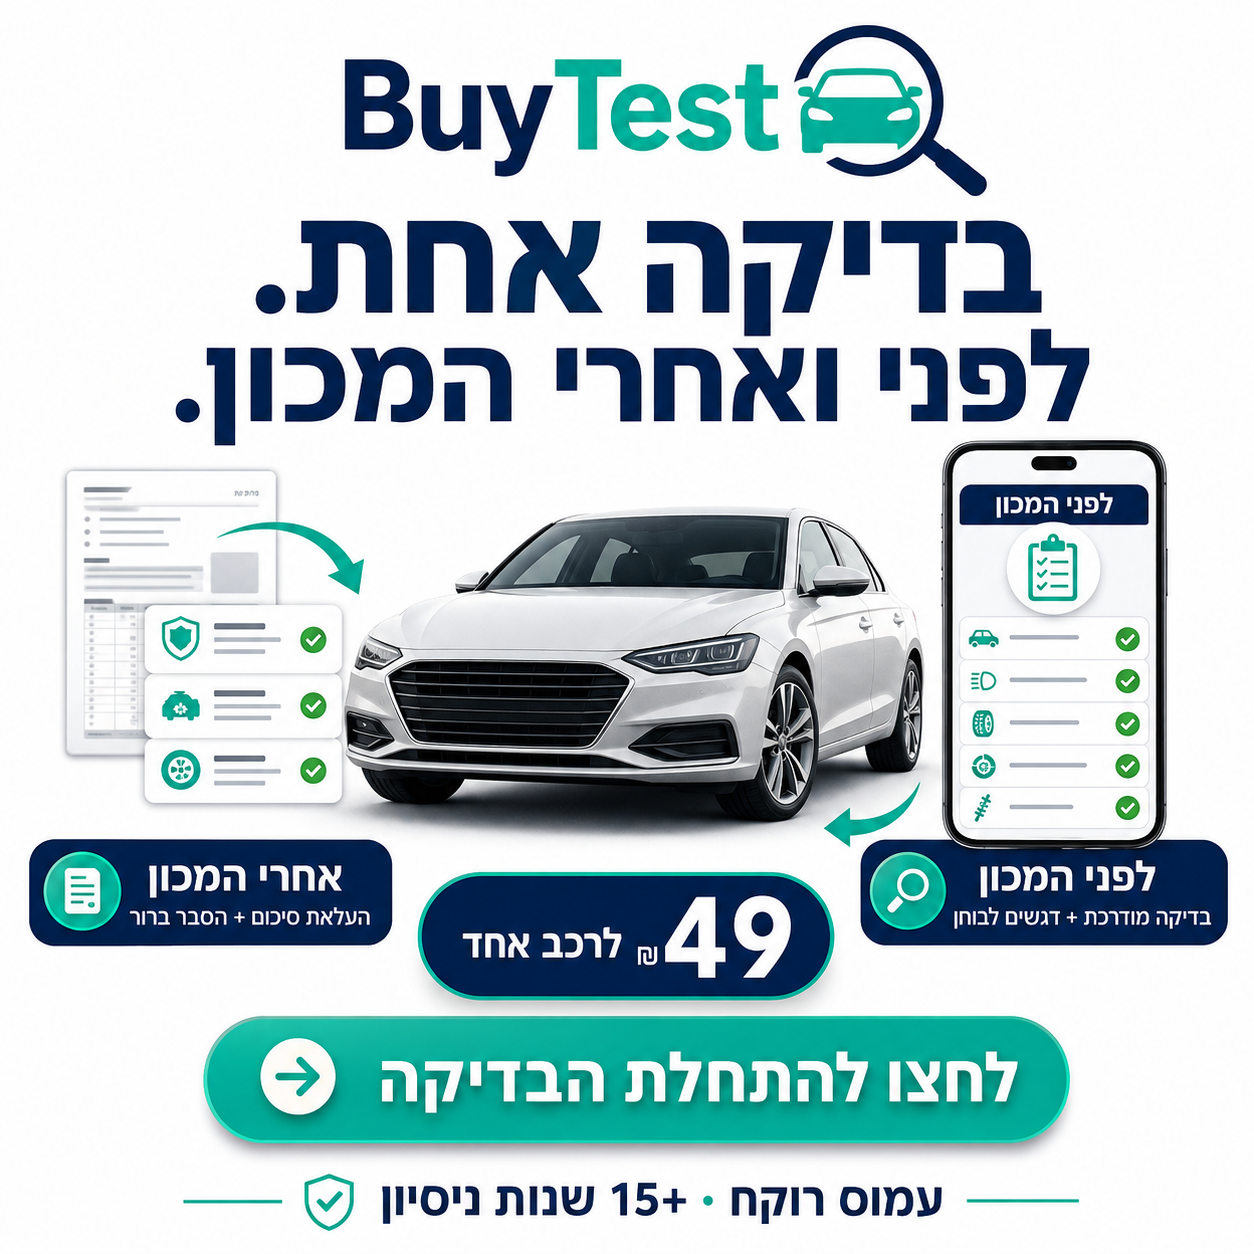
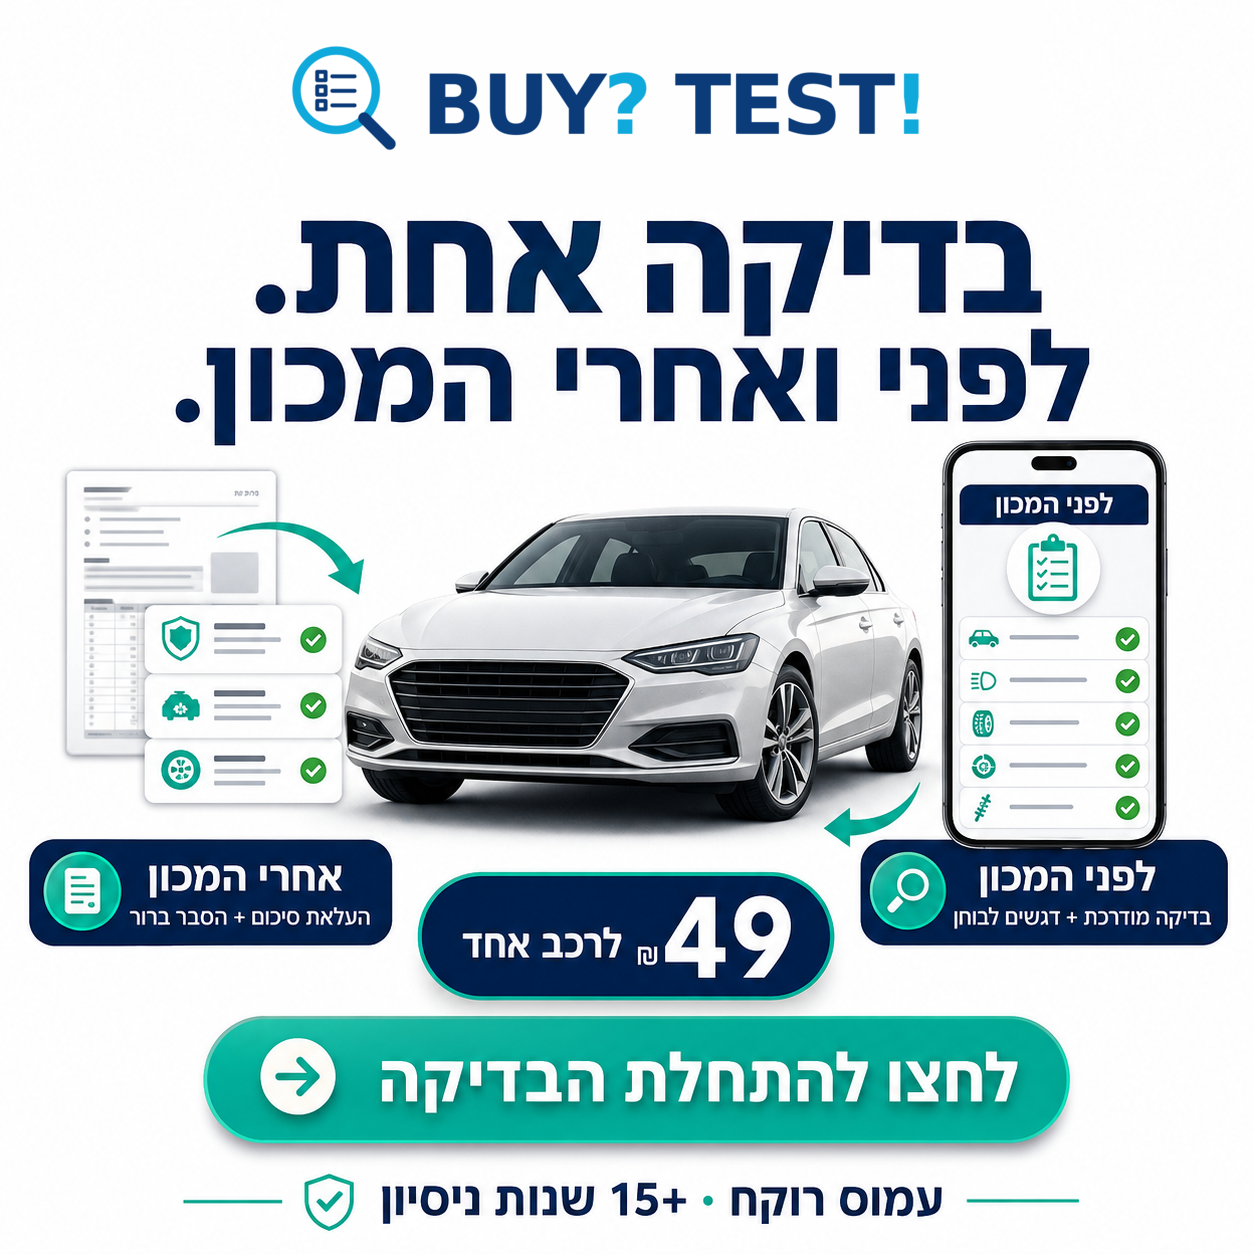
Add files via upload

Changed region(s): [[0.2177, 0.0, 0.8086, 0.1555]]

diff --git a/index.html b/index.html
@@ -10,8 +10,8 @@
 <meta property="og:site_name" content="BuyTest">
 <meta property="og:title" content="BuyTest | בדיקה לפני בדיקה">
 <meta property="og:description" content="בדיקת רכב חכמה לפני ואחרי המכון, מבית עמוס רוקח.">
-<meta property="og:image" content="https://amirok196888-cloud.github.io/buytest/buytest-facebook-1200x630-v1.png">
-<meta property="og:image:secure_url" content="https://amirok196888-cloud.github.io/buytest/buytest-facebook-1200x630-v1.png">
+<meta property="og:image" content="https://amirok196888-cloud.github.io/buytest/buytest-facebook-1200x630-v2.png">
+<meta property="og:image:secure_url" content="https://amirok196888-cloud.github.io/buytest/buytest-facebook-1200x630-v2.png">
 <meta property="og:image:type" content="image/png">
 <meta property="og:image:width" content="1200">
 <meta property="og:image:height" content="630">
@@ -19,7 +19,9 @@
 <meta name="twitter:card" content="summary_large_image">
 <meta name="twitter:title" content="BuyTest | בדיקה לפני בדיקה">
 <meta name="twitter:description" content="בדיקת רכב חכמה לפני ואחרי המכון, מבית עמוס רוקח.">
-<meta name="twitter:image" content="https://amirok196888-cloud.github.io/buytest/buytest-facebook-1200x630-v1.png">
+<meta name="twitter:image" content="https://amirok196888-cloud.github.io/buytest/buytest-facebook-1200x630-v2.png">
+<link rel="icon" type="image/png" href="buytest-icon-512.png">
+<link rel="apple-touch-icon" href="buytest-icon-512.png">
 <title>BuyTest | בדיקה לפני בדיקה</title>
 <style>
 :root{--bg:#09151d;--card:#132a35;--card2:#0d2029;--line:#2a4652;--txt:#f7fafb;--muted:#aebcc3;--a:#28cba2;--warn:#f3c35e;--bad:#f47f7f}
@@ -155,7 +157,7 @@ button:focus-visible,a:focus-visible,input:focus-visible,textarea:focus-visible{
 .formulaAdmin{display:none;border:2px solid #285f7a;background:#f2f8fb}.formulaAdminGrid{display:grid;grid-template-columns:repeat(2,minmax(0,1fr));gap:10px}.formulaAdmin .wide{grid-column:1/-1}.formulaAdmin input,.formulaAdmin select,.formulaAdmin textarea{width:100%;background:#fff}.formulaAdmin textarea{min-height:80px}.formulaAdminStats{padding:11px 13px;border-radius:12px;background:#e7f3f8;color:#173f52;font-weight:800;margin:10px 0}.formulaAdminList{max-height:270px;overflow:auto;border:1px solid #d9e2e6;border-radius:12px;background:#fff;margin-top:12px}.formulaAdminItem{padding:10px 12px;border-bottom:1px solid #e6edef}.formulaAdminItem:last-child{border-bottom:0}.formulaAdminItem small{display:block;color:#60717a;margin-top:3px}.formulaAdminActions{display:flex;gap:8px;margin-top:10px;flex-wrap:wrap}.formulaAdminActions button{flex:1;min-width:150px}.contextNote{margin-top:8px;padding:9px 11px;border-radius:10px;background:#eef4f6;color:#35515c}.matchSource{font-size:12px;color:#60717a;margin-top:7px}
 @media(max-width:760px){.mktHero{padding:30px 0 24px}.mktHeroGrid,.mktAbout,.afterGrid{grid-template-columns:1fr}.mktGrid3{grid-template-columns:1fr}.mktOutcome{grid-template-columns:1fr 1fr}.mktHeroCard{padding:18px}.mktLead{font-size:18px}.mktCtas{flex-direction:column}.mktBtn{width:100%}main{padding-top:12px}.card{padding:18px;margin:20px 0}.credentials strong{font-size:22px}.credentials span{font-size:15px}.scopeStrip{grid-template-columns:1fr}}
 @media(max-width:460px){.mktOutcome{grid-template-columns:1fr}.priceGrid{grid-template-columns:1fr}.licenseGrid,.grid,.formulaAdminGrid{grid-template-columns:1fr}.formulaAdmin .wide{grid-column:auto}.mktWrap{padding:0 14px}}
-</style><meta name="buytest-build" content="expert-calibration-239-v39-auto-crop-ocr">
+</style><meta name="buytest-build" content="expert-calibration-239-v40-brand-assets">
 </head><body>
 
 <section id="marketingLanding">
@@ -1728,7 +1730,15 @@ async function btBuildPdfBlob(){
   function rule(){ensure(30);ctx.fillStyle='#10a77b';ctx.fillRect(margin,y,W-margin*2,5);y+=30}
 
   newPage();
-  textBlock('BuyTest',58,true,4);
+  const brandLogo=await btLoadImage('buytest-logo-compact.png');
+  if(brandLogo){
+    const logoW=520;
+    const logoH=Math.round(logoW*brandLogo.height/brandLogo.width);
+    ctx.drawImage(brandLogo,W-margin-logoW,y,logoW,logoH);
+    y+=logoH+20;
+  }else{
+    textBlock('BuyTest',58,true,4);
+  }
   textBlock(afterReportText?'סיכום משולב — לפני ואחרי המכון':'סיכום לפני המכון',34,true,18);
   rule();
 
